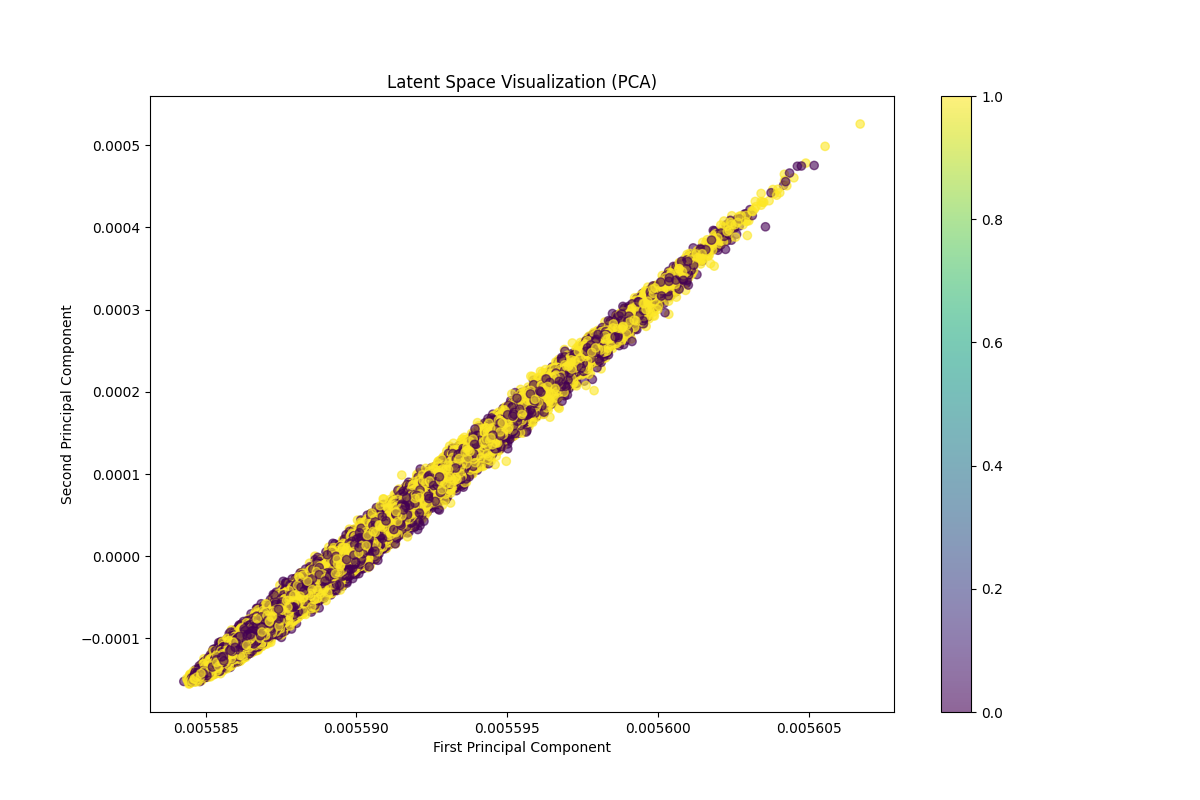
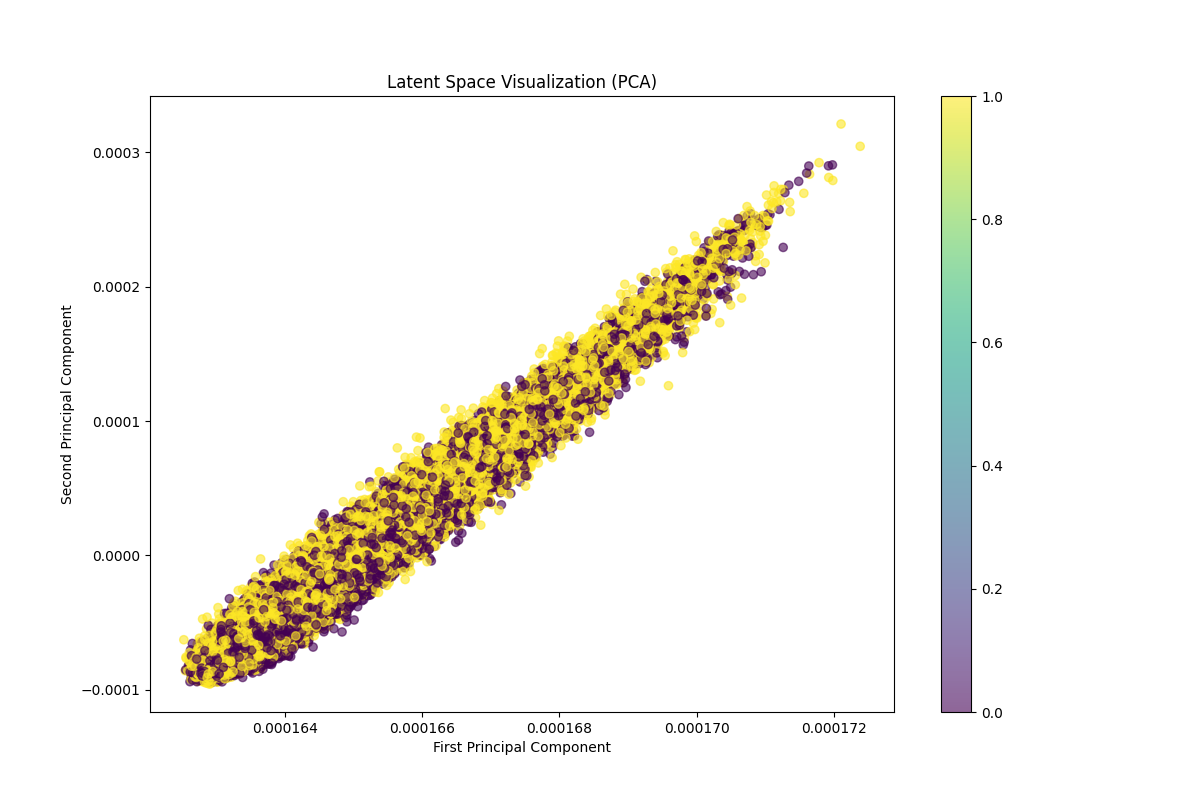
Updated and added multiple findings

diff --git a/main.py b/main.py
@@ -297,16 +297,27 @@ def load_or_process_activations(dataset, tokenizer, model, layer_index):
 
 def main(resume=True):
     device = torch.device("cuda" if torch.cuda.is_available() else "cpu")
+<<<<<<< HEAD
 
     # Load GPT-2 model and tokenizer
     model_name = 'gpt2'
     gpt2_model = GPT2Model.from_pretrained(
         model_name, output_hidden_states=True)
+=======
+    logging.info(f"Using device: {device}")
+
+    # Load GPT-2 model and tokenizer
+    model_name = 'gpt2'
+    logging.info("Loading GPT-2 model and tokenizer...")
+    gpt2_model = GPT2Model.from_pretrained(model_name, output_hidden_states=True).to(device)
+>>>>>>> 5527f21 (Updated and added multiple findings)
     tokenizer = GPT2Tokenizer.from_pretrained(model_name)
 
     # Load dataset
+    logging.info("Loading SST-2 dataset...")
     dataset = load_dataset('glue', 'sst2', split='train')
 
+<<<<<<< HEAD
     if resume:
         model, optimizer, start_epoch, losses = load_or_create_model()
         activations_dataset = load_or_process_activations(
@@ -349,9 +360,63 @@ def main(resume=True):
         visualize_detailed_circuits(
             modified_latents, clusters, save_path='detailed_circuit_visualization.png')
 
+=======
+    # Initialize model and optimizer
+    input_dim = 768  # GPT-2's hidden size
+    hidden_dim = 1024
+    
+    if resume and os.path.exists('checkpoints/latest_checkpoint.pt'):
+        logging.info("Resuming from checkpoint...")
+        model, optimizer, start_epoch, losses = load_or_create_model()
+        activations_dataset = load_or_process_activations(dataset, tokenizer, gpt2_model, layer_index=5)
+>>>>>>> 5527f21 (Updated and added multiple findings)
     else:
-        # Run everything from scratch
-        pass
+        logging.info("Starting training from scratch...")
+        model = SparseAutoencoder(input_dim, hidden_dim)
+        optimizer = torch.optim.Adam(model.parameters(), lr=1e-3, weight_decay=1e-5)
+        start_epoch = 0
+        losses = []
+        activations_dataset = preprocess_data(dataset, tokenizer, gpt2_model, layer_index=5)
+
+    data_loader = torch.utils.data.DataLoader(
+        activations_dataset,
+        batch_size=batch_size,
+        shuffle=True,
+        pin_memory=True if torch.cuda.is_available() else False,
+        num_workers=2
+    )
+
+    if start_epoch < 50:  # num_epochs = 50
+        criterion = nn.MSELoss(reduction='mean')
+        new_losses = train_autoencoder_with_sparsity(
+            data_loader,
+            model,
+            criterion,
+            optimizer,
+            start_epoch=start_epoch,
+            epochs=50
+        )
+        losses.extend(new_losses)
+
+    logging.info("Training complete. Generating visualizations...")
+    visualize_training_progress(losses)
+    latent_representations = get_latent_representations(data_loader, model)
+    
+    # Cluster the latent neurons
+    logging.info("Clustering latent neurons...")
+    clusters, neuron_embeddings = cluster_latent_neurons(latent_representations, n_clusters=5)
+    print("Identified circuits (clusters):", clusters)
+    
+    # Ablate non-circuit neurons
+    target_circuit = 0  # For example, circuit #0
+    logging.info(f"Ablating non-circuit neurons for circuit {target_circuit}...")
+    modified_latents = ablate_non_circuit_neurons(latent_representations, clusters, target_circuit)
+    
+    # Visualize latent space
+    logging.info("Generating latent space visualization...")
+    visualize_detailed_circuits(modified_latents, clusters, save_path='detailed_circuit_visualization.png')
+    logging.info("Process complete!")
+
 
 
 if __name__ == "__main__":

diff --git a/detailed_visualization.py b/detailed_visualization.py
@@ -15,7 +15,11 @@ def visualize_detailed_circuits(latent_reps, clusters, save_path='detailed_circu
     Args:
         latent_reps (torch.Tensor or np.ndarray): The latent representations 
             of shape (num_samples, hidden_dim).
+<<<<<<< HEAD
         clusters (np.ndarray): Cluster labels for each latent neuron used to color the plot.
+=======
+        clusters (np.ndarray): Cluster labels for each latent neuron.
+>>>>>>> 5527f21 (Updated and added multiple findings)
         save_path (str): Path to save the detailed circuit visualization.
     """
     # Convert latent representations to numpy if needed
@@ -28,11 +32,26 @@ def visualize_detailed_circuits(latent_reps, clusters, save_path='detailed_circu
     pca = PCA(n_components=2)
     latent_2d = pca.fit_transform(latent_np)
 
+<<<<<<< HEAD
+=======
+    # Create cluster assignments for each sample based on the most active circuit
+    sample_clusters = np.zeros(latent_np.shape[0], dtype=int)
+    for i in range(latent_np.shape[0]):
+        # Get the most active circuit for this sample
+        neuron_activations = np.abs(latent_np[i])  # Use absolute values
+        cluster_activations = [np.mean(neuron_activations[clusters == c]) for c in np.unique(clusters)]
+        sample_clusters[i] = np.argmax(cluster_activations)
+
+>>>>>>> 5527f21 (Updated and added multiple findings)
     # Create a DataFrame for plotting with seaborn
     df = pd.DataFrame({
         'PC1': latent_2d[:, 0],
         'PC2': latent_2d[:, 1],
+<<<<<<< HEAD
         'Cluster': clusters.astype(str)
+=======
+        'Cluster': sample_clusters.astype(str)
+>>>>>>> 5527f21 (Updated and added multiple findings)
     })
 
     # Set up the matplotlib figure
@@ -43,7 +62,11 @@ def visualize_detailed_circuits(latent_reps, clusters, save_path='detailed_circu
                          data=df, s=50, alpha=0.7, edgecolor="none")
 
     # Overlay KDE contours for each cluster
+<<<<<<< HEAD
     unique_clusters = np.unique(clusters)
+=======
+    unique_clusters = np.unique(sample_clusters)
+>>>>>>> 5527f21 (Updated and added multiple findings)
     for cluster in unique_clusters:
         subset = df[df['Cluster'] == str(cluster)]
         sns.kdeplot(x=subset['PC1'], y=subset['PC2'], ax=ax, 
@@ -58,7 +81,11 @@ def visualize_detailed_circuits(latent_reps, clusters, save_path='detailed_circu
     plt.savefig(save_path)
     plt.close()
 
+<<<<<<< HEAD
     # Create additional plots for component distributions.
+=======
+    # Create additional plots for component distributions
+>>>>>>> 5527f21 (Updated and added multiple findings)
     fig, axes = plt.subplots(1, 2, figsize=(14, 6))
     sns.histplot(df['PC1'], kde=True, color="skyblue", ax=axes[0])
     axes[0].set_title("Distribution of PC1")
